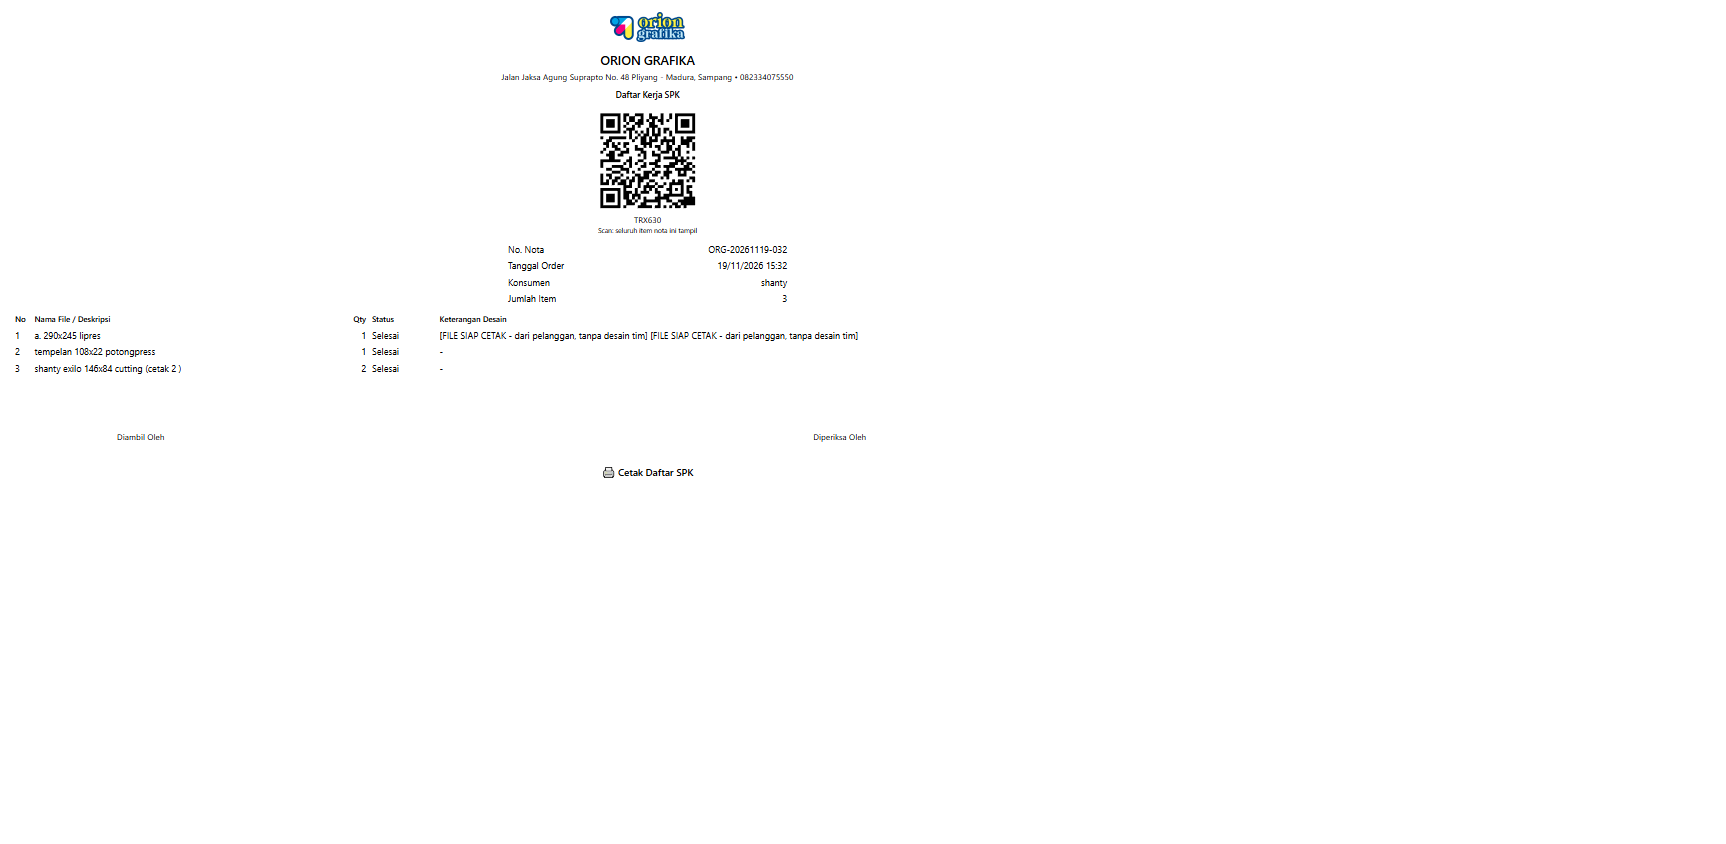
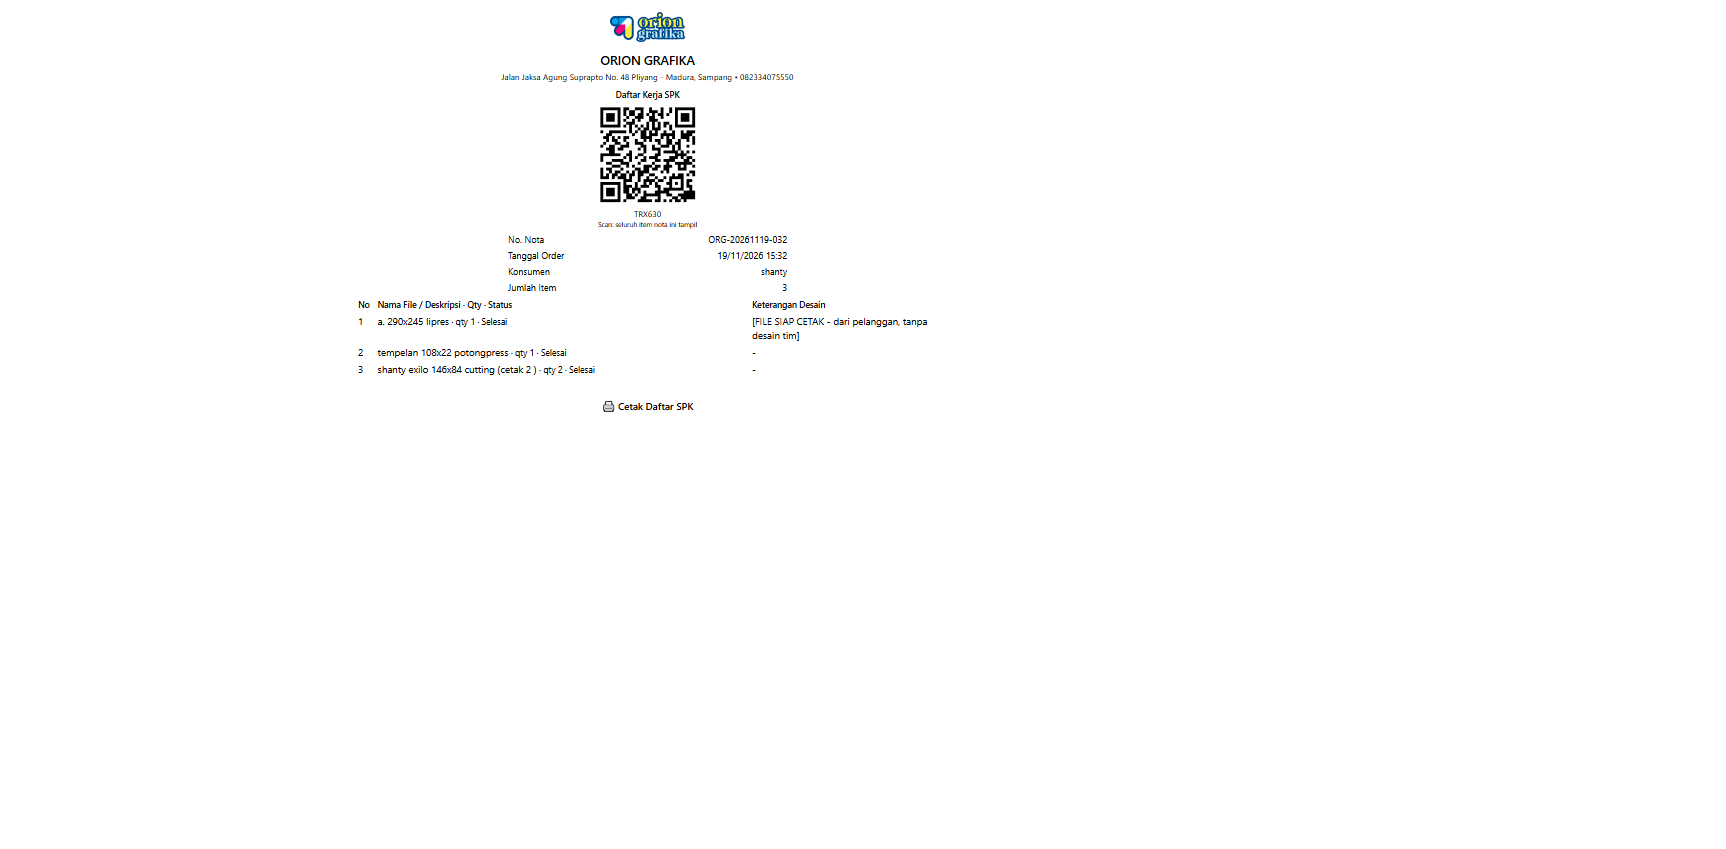
fix(spk): daftar kerja lebih terbaca - font dinaikkan, padding dirapatkan, qty+status menempel pada nama file, blok tanda tangan dihapus, keterangan desain ganda dicetak sekali

diff --git a/resources/views/spk/print-semua.blade.php b/resources/views/spk/print-semua.blade.php
@@ -4,18 +4,52 @@
     <meta charset="UTF-8">
     <title>Daftar Kerja SPK {{ $details->first()->nomor_nota }}</title>
     @include('partials.print-style')
-    @if($format !== 'thermal')
     <style>
-        /* Daftar kerja A4 memakai lebar kertas penuh - style nota
-           membatasi .sheet ke 480px (pas untuk struk). */
-        .sheet { max-width: 100%; }
+        /* Daftar kerja dibaca sambil dibagikan ke tim produksi, bukan
+           disimpan - jadi hurufnya dinaikkan dan jaraknya dirapatkan:
+           lebih mudah dibaca, tetapi tetap muat banyak item per lembar. */
+        .print-header { margin-bottom: 6px; }
+        .divider { margin: 3px 0; }
+        .table-compact th, .table-compact td { padding: 1.5px 4px; }
+        .item-daftar { margin-bottom: 4px; }
+        .item-daftar .nama { font-size: 13px; font-weight: 500; }
+        .item-daftar .meta { font-size: {{ $format === 'thermal' ? '11.5px' : '12px' }}; color: var(--ink-600); }
+        /* Qty dan status menempel pada nama file selama masih muat; bila
+           tidak muat ia pindah utuh ke baris berikutnya, tidak terpotong
+           di tengah ("qty 1 ·" di ujung baris). */
+        .meta-inline {
+            font-size: {{ $format === 'thermal' ? '11px' : '11.5px' }};
+            font-weight: 400;
+            color: var(--ink-600);
+            white-space: nowrap;
+        }
+        .daftar-table th { font-size: 11.5px; }
+        .daftar-table td { font-size: 13px; }
+        @if($format !== 'thermal')
+        /* Daftar kerja A4 selebar kertas (bukan 480px milik struk, dan
+           bukan selebar jendela browser - pratinjau harus sama dengan
+           hasil cetak). */
+        .sheet { max-width: 780px; margin-left: auto; margin-right: auto; }
         table.info-nota { max-width: 380px; margin: 0 auto; }
+        @endif
     </style>
-    @endif
 </head>
 <body>
     @php
         $nota = $details->first();
+
+        // Keterangan desain kadang tersimpan berulang di database (penanda
+        // seperti "[FILE SIAP CETAK ...]" tertulis dua kali karena pernah
+        // ditambahkan lebih dari sekali). Untuk cetakan, penanda yang sama
+        // cukup tampil sekali; isi database tidak diubah.
+        $ketDesain = function ($teks) {
+            $teks = trim((string) $teks);
+            if ($teks === '' || ! preg_match_all('/\[[^\]]+\]/', $teks, $cocok) || count($cocok[0]) < 2) {
+                return $teks;
+            }
+            $sisa = trim(preg_replace('/\[[^\]]+\]/', ' ', $teks));
+            return trim(implode(' ', array_unique($cocok[0])) . ($sisa !== '' ? ' ' . $sisa : ''));
+        };
     @endphp
     <div class="sheet">
         @include('partials.print-header', ['docTitle' => 'Daftar Kerja SPK'])
@@ -45,24 +79,19 @@
              discan/dibuka, jadi tidak dicetak di kertas. --}}
         @if($format === 'thermal')
             @foreach($details->values() as $i => $detail)
-            <div style="margin-bottom: 6px;">
-                <div>{{ $i + 1 }}. {{ $detail->nama_file }}</div>
-                <div style="font-size:10px; color:var(--ink-600);">
-                    qty {{ angka($detail->qty, 4) }} &middot; {{ $detail->status_spk }}@if($detail->status_urgent) (URGENT)@endif
-                </div>
-                @if($detail->catatan_produksi)
-                <div style="font-size:10px; color:var(--ink-600);">Ket: {{ $detail->catatan_produksi }}</div>
+            <div class="item-daftar">
+                <div class="nama">{{ $i + 1 }}. {{ $detail->nama_file }}<span class="meta-inline"> &middot; qty {{ angka($detail->qty, 4) }} &middot; {{ $detail->status_spk }}@if($detail->status_urgent) (URGENT)@endif</span></div>
+                @if($ketDesain($detail->catatan_produksi) !== '')
+                <div class="meta">Ket: {{ $ketDesain($detail->catatan_produksi) }}</div>
                 @endif
             </div>
             @endforeach
         @else
-            <table class="table-compact">
+            <table class="table-compact daftar-table">
                 <thead>
                     <tr>
                         <th style="width:26px;">No</th>
-                        <th>Nama File / Deskripsi</th>
-                        <th class="right" style="width:44px;">Qty</th>
-                        <th style="width:90px;">Status</th>
+                        <th style="width:64%;">Nama File / Deskripsi &middot; Qty &middot; Status</th>
                         <th>Keterangan Desain</th>
                     </tr>
                 </thead>
@@ -70,20 +99,13 @@
                     @foreach($details->values() as $i => $detail)
                     <tr>
                         <td>{{ $i + 1 }}</td>
-                        <td>{{ $detail->nama_file }}</td>
-                        <td class="right">{{ angka($detail->qty, 4) }}</td>
-                        <td>{{ $detail->status_spk }}@if($detail->status_urgent) (URGENT)@endif</td>
-                        <td>{{ $detail->catatan_produksi ?: '-' }}</td>
+                        <td>{{ $detail->nama_file }}<span class="meta-inline"> &middot; qty {{ angka($detail->qty, 4) }} &middot; {{ $detail->status_spk }}@if($detail->status_urgent) (URGENT)@endif</span></td>
+                        <td>{{ $ketDesain($detail->catatan_produksi) ?: '-' }}</td>
                     </tr>
                     @endforeach
                 </tbody>
             </table>
         @endif
-
-        <div class="signature">
-            <div><div class="line">Diambil Oleh</div></div>
-            <div><div class="line">Diperiksa Oleh</div></div>
-        </div>
     </div>
 
     <div class="no-print">

diff --git a/docs/reviews/SPK_GABUNGAN_SEMUA_ITEM.md b/docs/reviews/SPK_GABUNGAN_SEMUA_ITEM.md
@@ -56,9 +56,27 @@ thermal** dari kedua titik masuk:
 - format A4 tetap tersedia bila dipanggil manual dengan `format=normal`
 
 Di kertas 80mm, tabel banyak kolom tidak dipakai: `format=thermal` merender
-**daftar linear** (1 item = 2–3 baris: nomor + nama file, lalu qty/status,
-lalu keterangan desain). Tabel berkolom (nama file, qty, status, keterangan
-desain) hanya untuk A4.
+**daftar linear** dengan huruf lebih besar (nama file 13px) dan padding
+dirapatkan. Tiap item ditulis satu baris:
+
+```
+1. a. 290x245 lipres · qty 1 · Selesai
+   Ket: [FILE SIAP CETAK - dari pelanggan, tanpa desain tim]
+```
+
+Qty dan status **menempel pada nama file** selama masih muat; bila tidak
+muat ia pindah utuh ke baris berikutnya (`white-space: nowrap`) sehingga
+tidak pernah terpotong di tengah. Tabel berkolom (No | nama file · qty ·
+status | keterangan desain) hanya untuk A4, dengan lebar 780px supaya
+pratinjau sama dengan kertas.
+
+Blok tanda tangan **Diambil Oleh / Diperiksa Oleh dihapus** dari daftar —
+lembar ini dibagikan ke tim produksi dan tidak diarsipkan sebagai bukti
+serah-terima; SPK per item tetap memilikinya.
+
+Keterangan desain yang tersimpan berulang di database (penanda
+`[FILE SIAP CETAK …]` tertulis dua kali) ditampilkan **sekali** saat cetak.
+Hanya tampilan yang dirapikan — isi database tidak diubah.
 
 ## Bukti visual (browser nyata, dev lokal)
 
